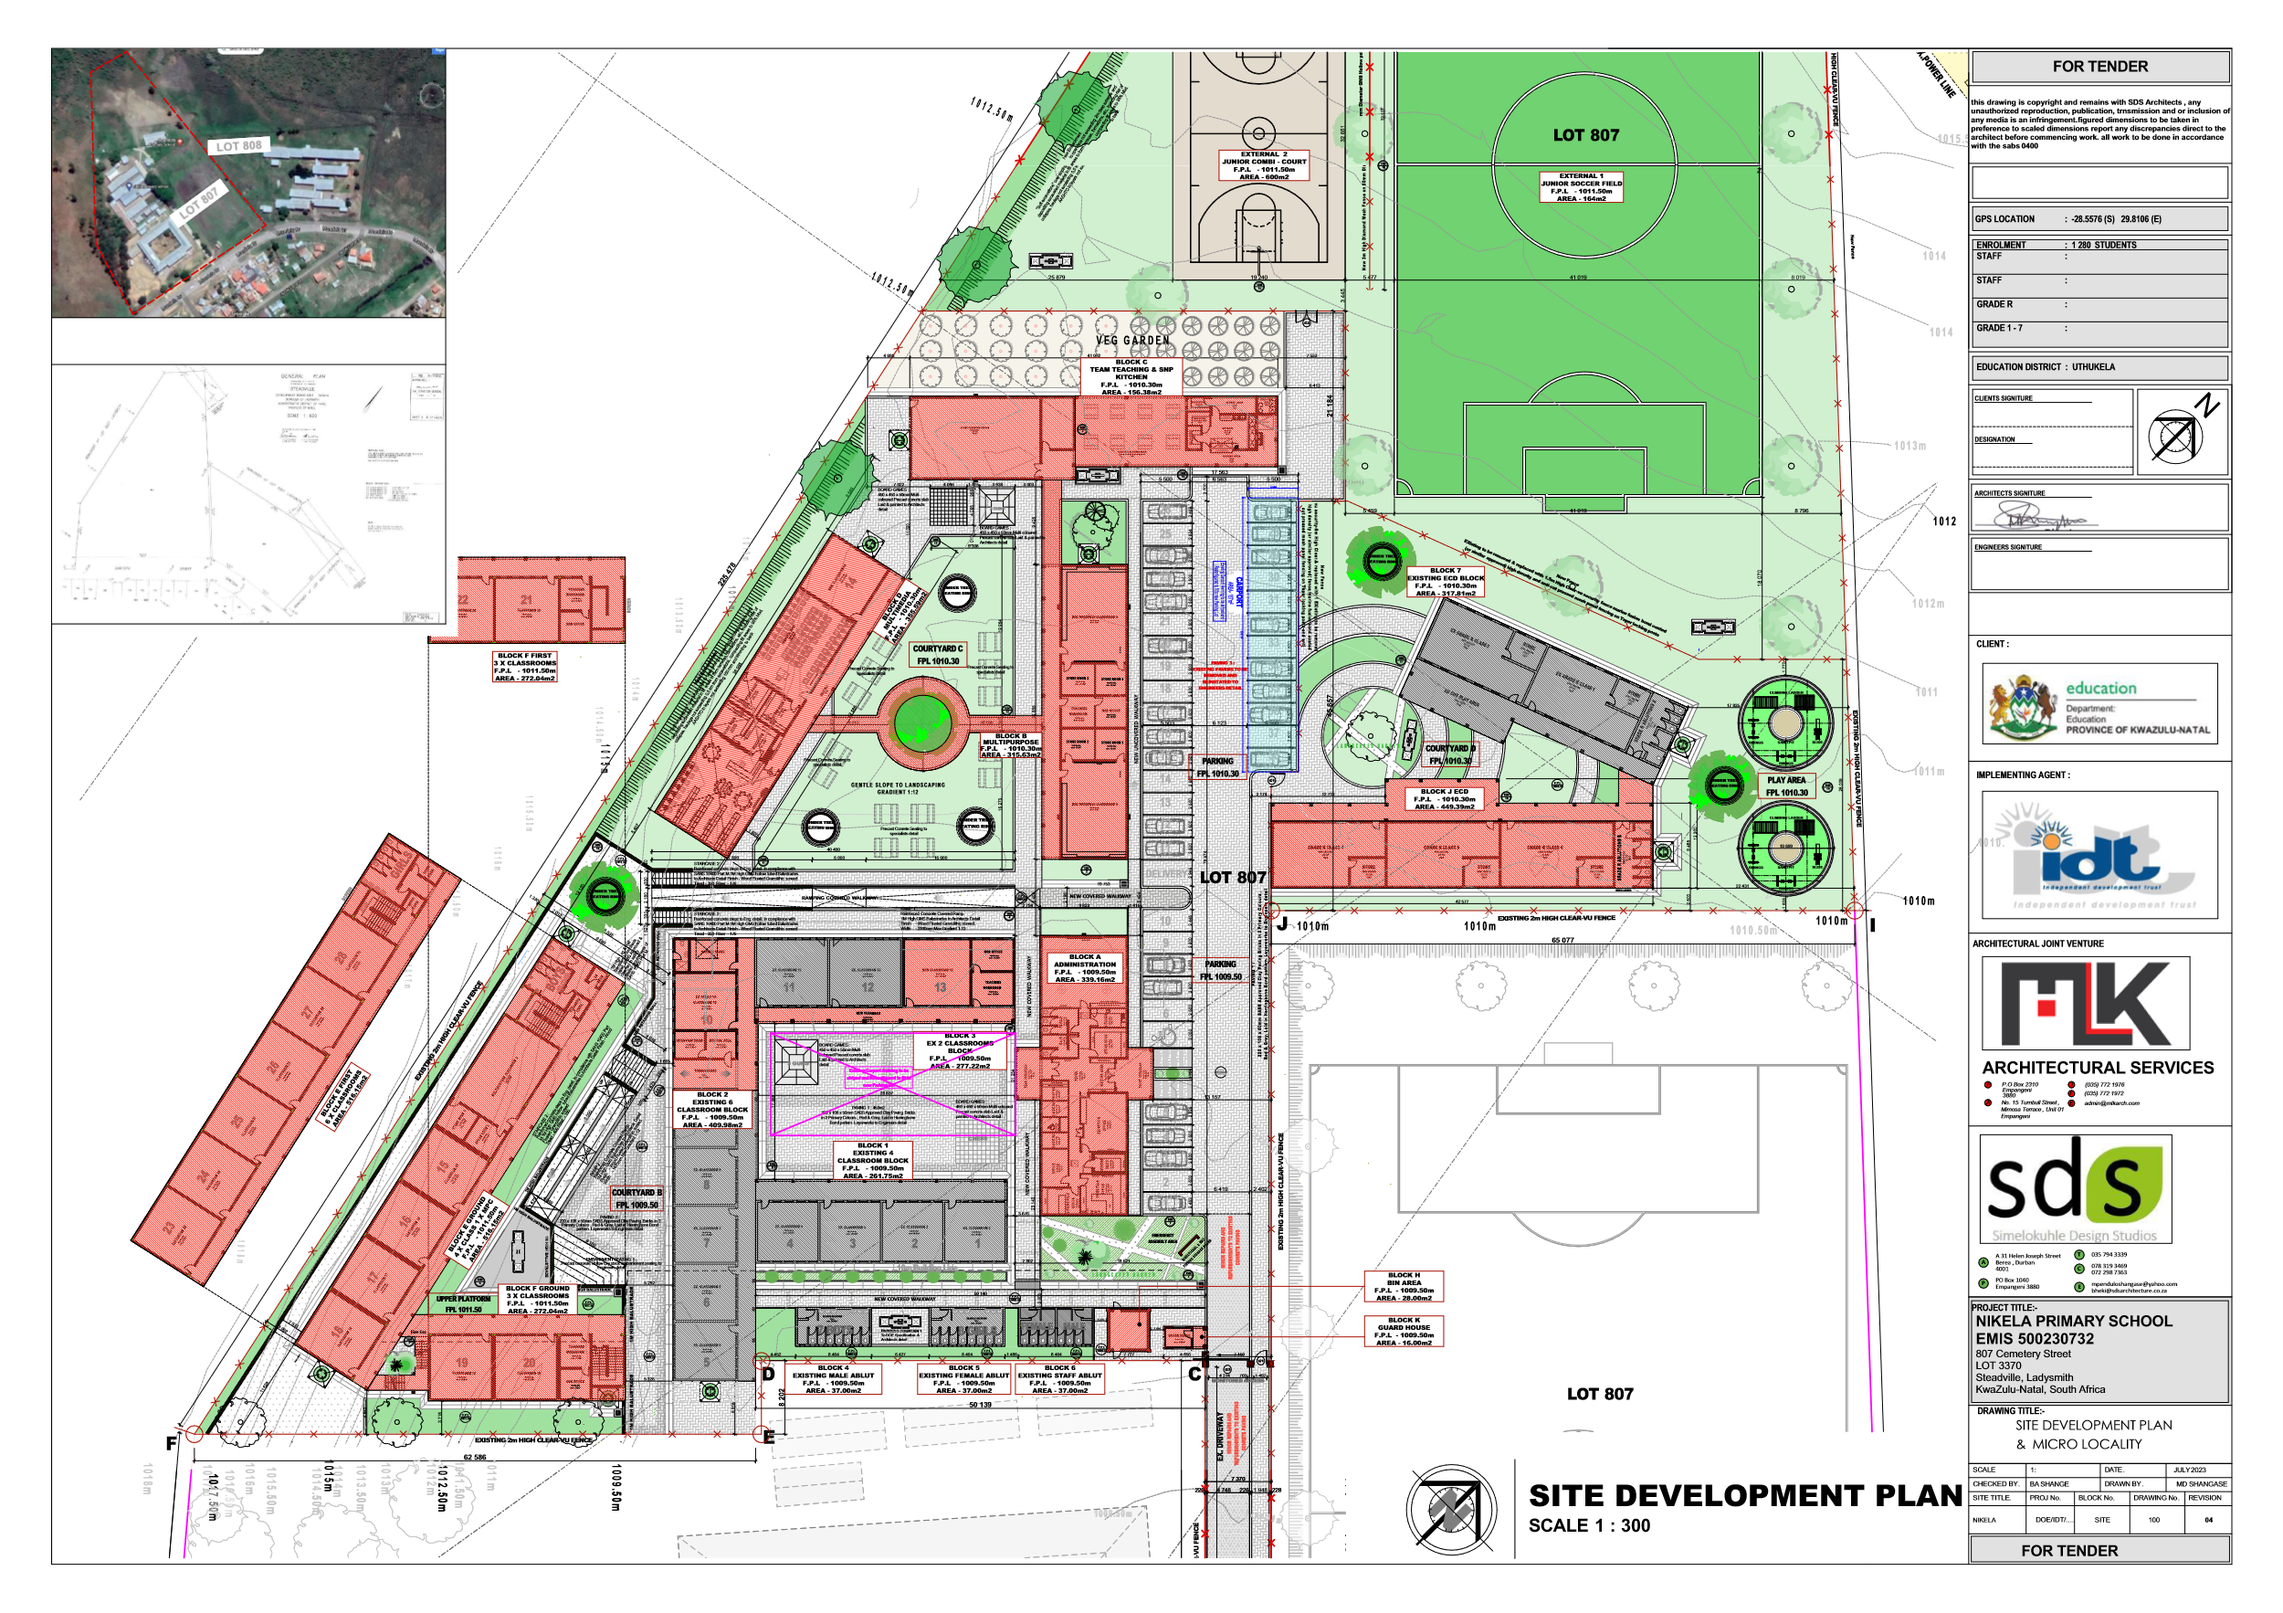
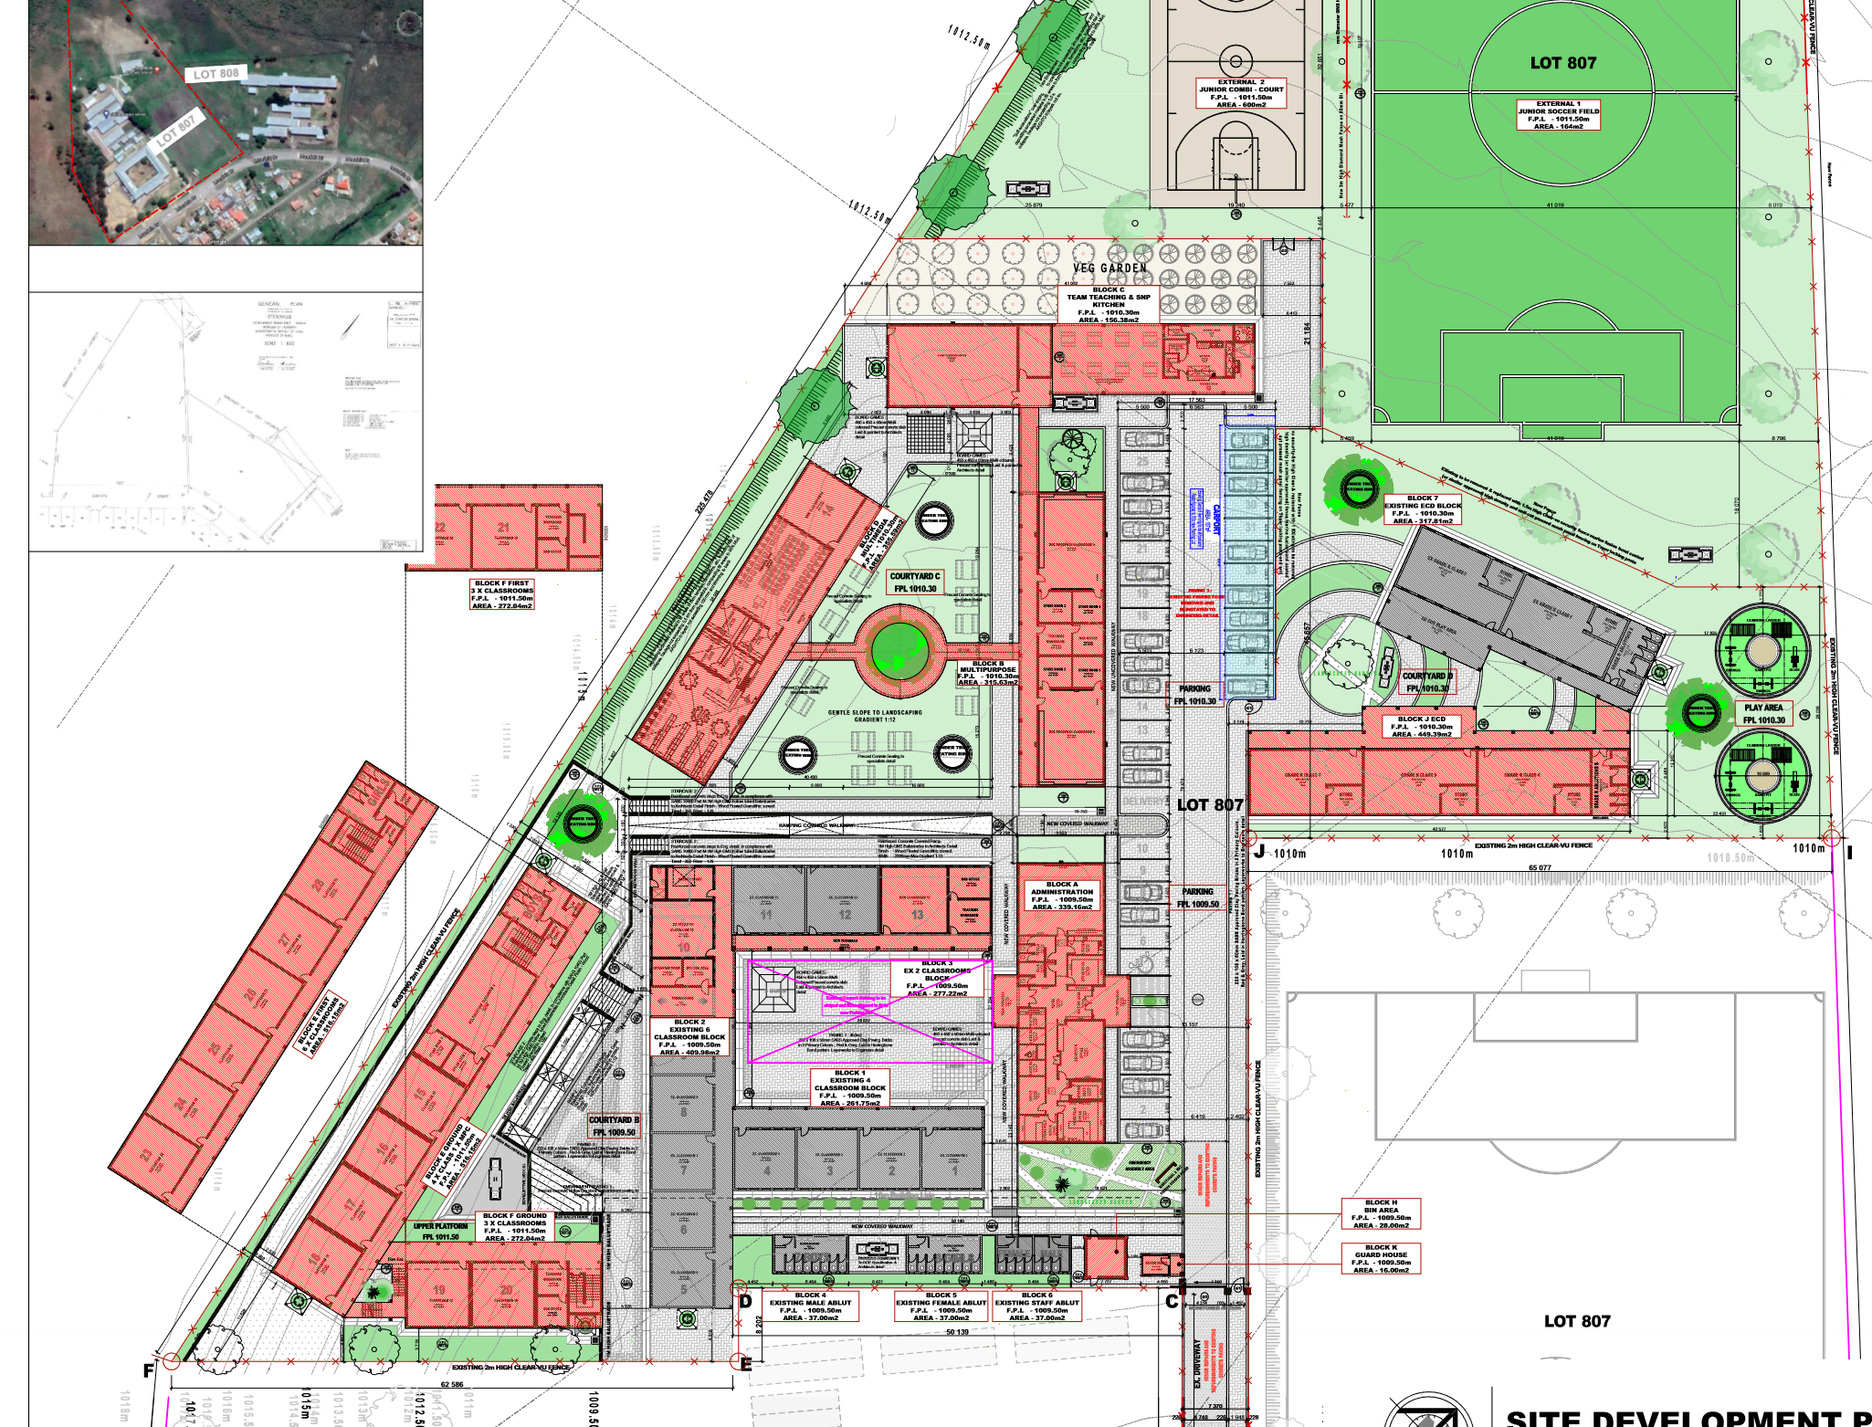
Crop Nikela title block out; reduce all wallpaper opacity

diff --git a/journal.html b/journal.html
@@ -14,7 +14,7 @@
     inset: 0;
     background: url("images/journal-sdp.png") center center / cover no-repeat;
     filter: invert(1) grayscale(1) contrast(1.05);
-    opacity: 0.08;
+    opacity: 0.055;
     z-index: 0;
     pointer-events: none;
   }

diff --git a/about.html b/about.html
@@ -14,7 +14,7 @@
     inset: 0;
     background: url("images/pantry-sdp.png") center center / cover no-repeat;
     filter: invert(1) grayscale(1) contrast(1.05);
-    opacity: 0.08;
+    opacity: 0.055;
     z-index: 0;
     pointer-events: none;
   }

diff --git a/projects.html b/projects.html
@@ -17,7 +17,7 @@
     background-repeat: no-repeat;
     background-size: cover;
     filter: invert(1) grayscale(1) contrast(1.05);
-    opacity: 0.10;
+    opacity: 0.06;
     z-index: 0;
     pointer-events: none;
   }
